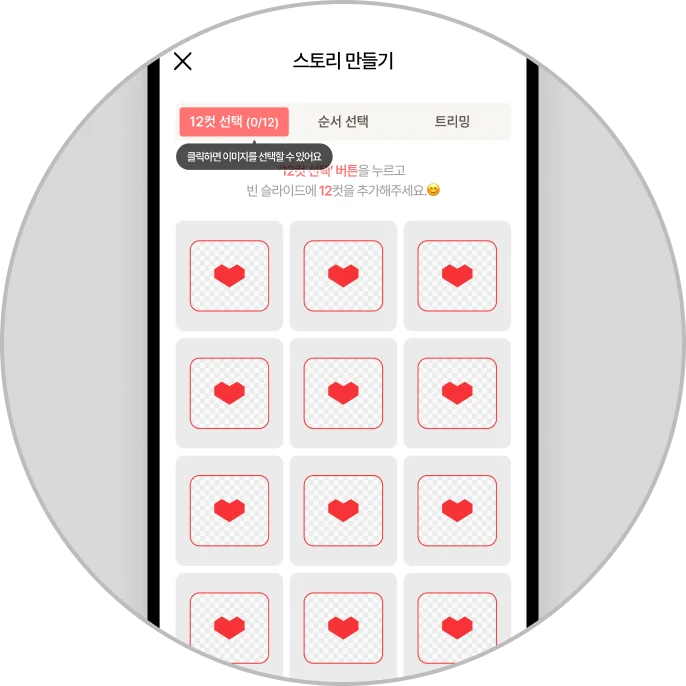
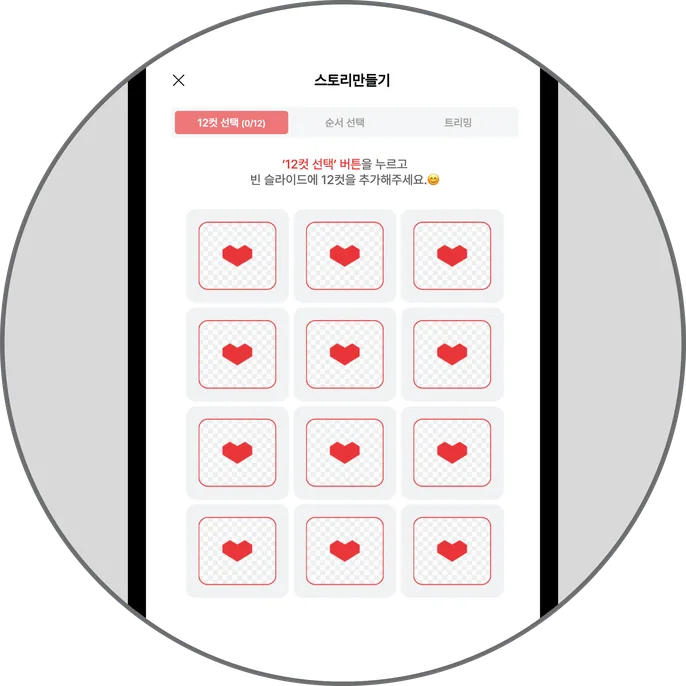
feat: How It Works 단계 이미지를 미니액자 목업으로 교체
12컷 선택/순서 선택/트리밍 화면을 step1~3에 매핑, webp 재변환(686px)으로 용량 최적화 및 캐시버스팅(?v=2) 적용

diff --git a/index.html b/index.html
@@ -324,7 +324,7 @@
         <div class="how__steps">
             <article class="how__card">
                 <div class="how__card-mockup">
-                    <img src="assets/images/how-step1.webp" alt="Select 12 photos" width="343" height="343"
+                    <img src="assets/images/how-step1.webp?v=2" alt="Select 12 photos" width="343" height="343"
                         loading="lazy" decoding="async" />
                 </div>
                 <span class="how__card-step">step 1</span>
@@ -339,7 +339,7 @@
 
             <article class="how__card">
                 <div class="how__card-mockup">
-                    <img src="assets/images/how-step2.webp" alt="Arrange order" width="343" height="343"
+                    <img src="assets/images/how-step2.webp?v=2" alt="Arrange order" width="343" height="343"
                         loading="lazy" decoding="async" />
                 </div>
                 <span class="how__card-step">step 2</span>
@@ -354,7 +354,7 @@
 
             <article class="how__card">
                 <div class="how__card-mockup">
-                    <img src="assets/images/how-step3.webp" alt="Trim photos" width="343" height="343"
+                    <img src="assets/images/how-step3.webp?v=2" alt="Trim photos" width="343" height="343"
                         loading="lazy" decoding="async" />
                 </div>
                 <span class="how__card-step">step 3</span>
